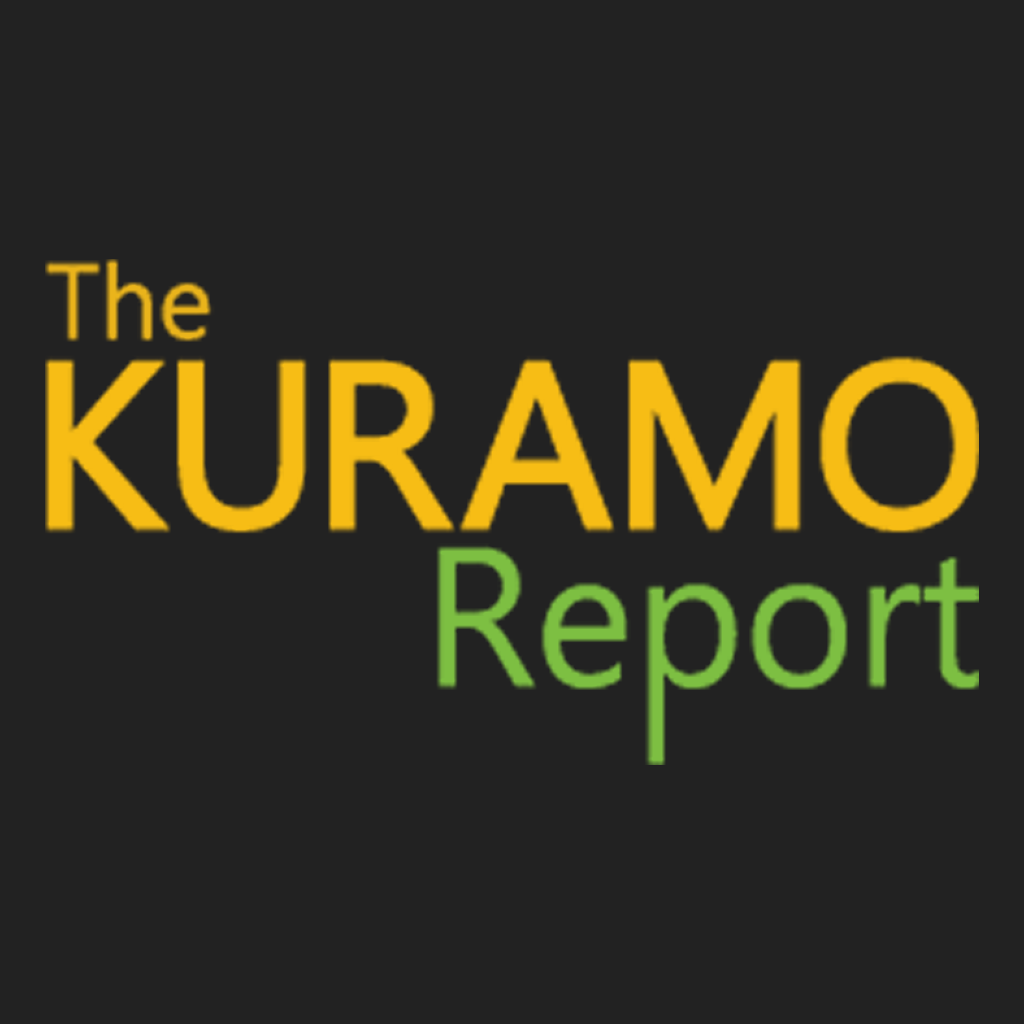
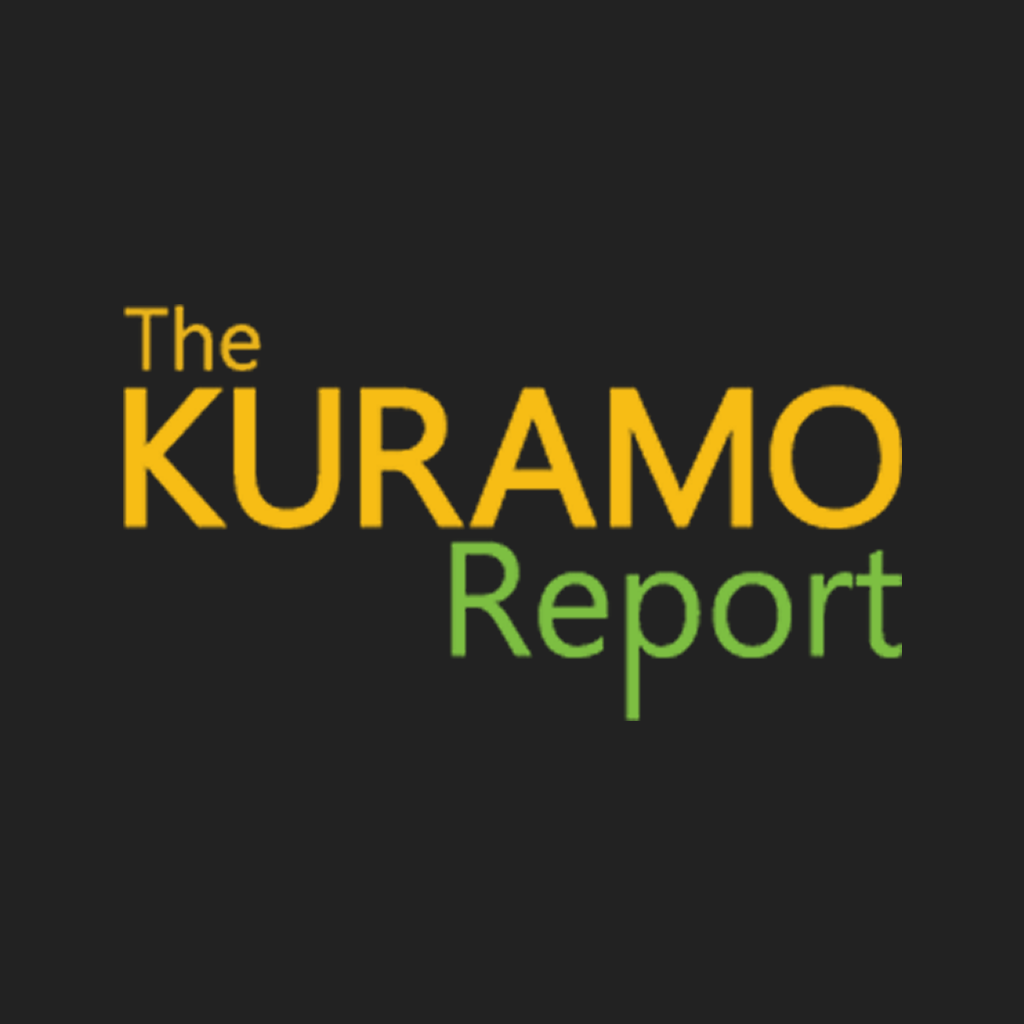
Updated splash>others rendering

Changed region(s): [[0.0312, 0.25, 0.9688, 0.75]]

diff --git a/news/www/templates/cards.html b/news/www/templates/cards.html
@@ -1,4 +1,4 @@
-<ion-view view-title="The Kuramo Report">
+<ion-view>
   <ion-content>
     <div ng-if="loading" style="padding-top: 10%;">
         <p class="text-center">
@@ -15,7 +15,7 @@
                     <i class="icon ion-chevron-right"></i>
                 </a>
                 <ion-slide-box  magazine-cover-book does-continue="'true'" auto-play="'true'" show-pager="false" delegate-handle="featured-slides">
-                    <ion-slide ng-repeat="entry in item.entries | limitTo:4"  class="entry-slide" magazine-cover="entry" on-error-background="img/dtn-tw-128.png">
+                    <ion-slide ng-repeat="entry in item.entries | limitTo:5"  class="entry-slide" magazine-cover="entry" on-error-background="img/dtn-tw-128.png">
                         <div class="film-layer padding">
                             <h1>
                                 <a href="#" class="text-center" ng-click="openEntry(entry, item, $event)"  ng-bind-html="::entry.title">
@@ -28,17 +28,17 @@
                 </ion-slide-box>
             </div>
 
-            <div class="row responsive-sm row-bottom">
+            <div class="row row-bottom">
                 <div class="col col-50">
                     <ul class="others">
-                        <li ng-repeat="otherFeature in item.featured.others | limitTo:featuredSectionLength">
+                        <li ng-repeat="otherFeature in getOtherFeatured(item, 0, 3)">
                             <a href="#" ng-click="openEntry(otherFeature, item, $event)" >{{::otherFeature.title}}</a>
                         </li>
                     </ul>
                 </div>
                 <div class="col col-50 text-right">
                     <ul class="others">
-                        <li ng-click="openEntry(otherFeature, item, $event)" ng-repeat="otherFeature in item.featured.others | limitTo:remainingFeaturedSectionLength">
+                        <li ng-repeat="otherFeature in getOtherFeatured(item, 3)">
                             <a href="#" ng-click="openEntry(otherFeature, item, $event)" >{{::otherFeature.title}}</a>
                         </li>
                     </ul>

diff --git a/news/www/css/style.css b/news/www/css/style.css
@@ -12,6 +12,22 @@
     height: 64px;
 }
 
+.bar-header {
+    background-repeat: no-repeat !important;
+    background-position: 30px 0 !important;
+    background-image: url('../img/logo_cropped.png') !important;
+    background-size: contain !important;
+}
+
+.bar-header .title {
+    visibility: hidden;
+}
+
+.bar-header button.back-button .back-text {
+    display: none;
+}
+
+
 .featured-card {
     font-size: 120%;
     background-color: #e0e0e0;
@@ -73,12 +89,12 @@
 }
 
 .featured-card .banner-row a {
-    color: black !important;
+    color: #222222 !important;
 }
 
 
 .featured-card  a {
-    color: black !important;
+    color: #222222 !important;
     text-decoration: none;
 }
 
@@ -187,15 +203,15 @@ img.entry-picture {
 }
 
 .entry-article {
-    margin-top: 20px;
+    margin-top: 5px;
     margin-bottom: 20px;
 }
-.entry-article .article-content a {
-    color: #222222 !important;
+.entry-article .article-content a, .entry-article  .article-content a:visited {
+    color: #a08060 !important;
     text-decoration: none;
 }
 
-.entry-article  .article-content a:hover, .entry-article  .article-content a:visited {
+.entry-article  .article-content a:hover {
     color: #a0a080 !important;
 }
 

diff --git a/news/www/js/controllers.js b/news/www/js/controllers.js
@@ -32,7 +32,10 @@ angular.module('dtn.controllers', [])
 		}
 	};
 
+	var others = {};
+
 	var refresh = function () {
+		others = {};
 		$scope.loading = false;
 		FeedSource.all()
 		.then(function (list) {
@@ -43,6 +46,24 @@ angular.module('dtn.controllers', [])
 				loadEntries(0);
 			});
 		});
+	};
+
+
+
+	$scope.getOtherFeatured = function (src, offset, length) {
+		if (src) {
+			var key = (src.feedUrl || src.link || src.url) + "_" + offset;
+			if (angular.isUndefined(others[key])) {
+				var data = src.featured.others || [];
+				if (length) {
+					others[key] = data.slice(offset, length);
+				}else {
+					others[key] = data.slice(offset);
+				}
+			}
+			return others[key];
+		}
+		return [];
 	};
 
 

diff --git a/news/www/js/directives.js b/news/www/js/directives.js
@@ -473,7 +473,7 @@ angular.module("dtn.directives", [])
 })
 .directive("hoverTracker", function () {
 	return function (scope, element, attr) {
-		element.append(angular.element("<div class='pegged pegged-" + (attr.hoverTracker || 'light') + "'>(--version)</div>"));
+		// element.append(angular.element("<div class='pegged pegged-" + (attr.hoverTracker || 'light') + "'>(--version)</div>"));
 	};
 })
 .directive("entryImage", function ($timeout, entryImageExtractor, entryImageProvider) {

diff --git a/news/scss/ionic.app.scss b/news/scss/ionic.app.scss
@@ -15,9 +15,10 @@ $royal:                           #886aea !default;
 $dark:                            #444 !default;
 */
 
+$dark:  #222222 !default;
+
 // The path for our ionicons font files, relative to the built CSS in www/css
 $ionicons-font-path: "../lib/ionic/fonts" !default;
 
 // Include all of Ionic
 @import "www/lib/ionic/scss/ionic";
-
